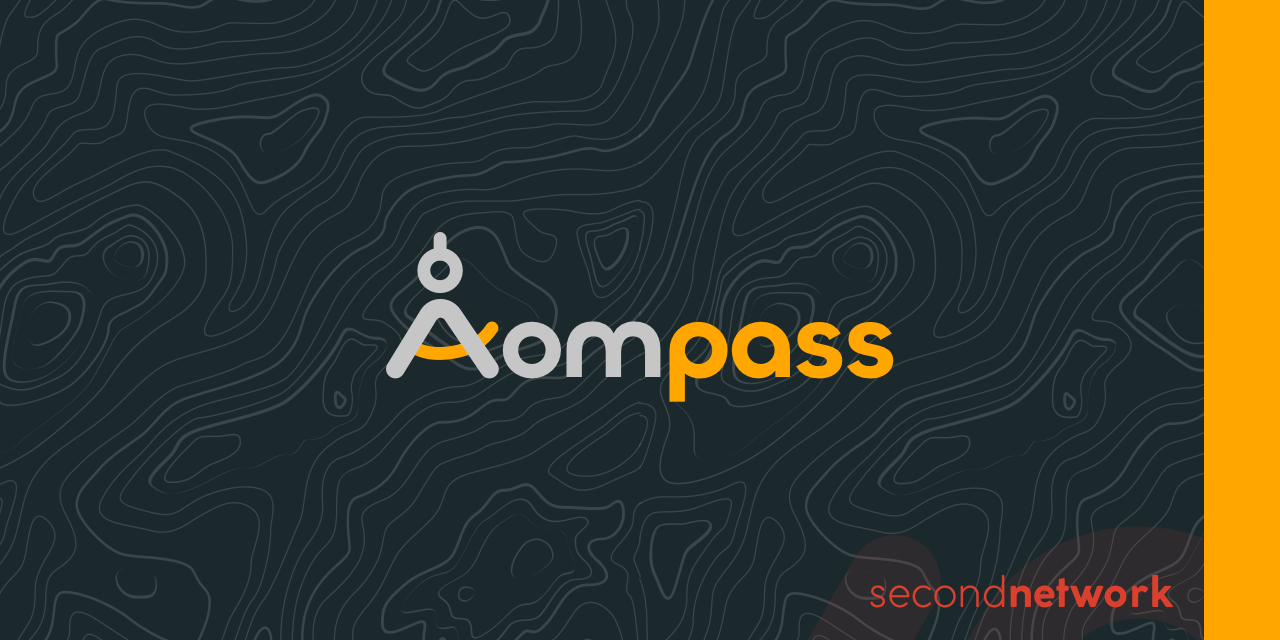
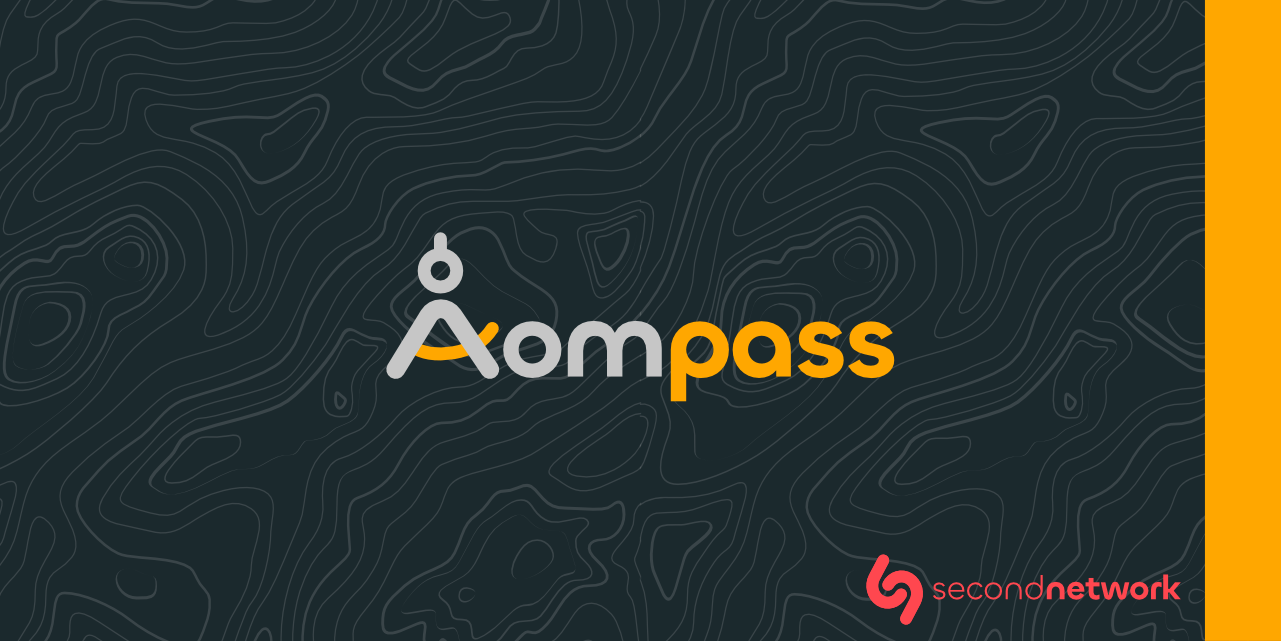
docs: update README to enhance project description and key features

Changed region(s): [[0.375, 0.5, 0.6875, 0.5938], [0.6562, 0.875, 0.9375, 0.9688], [0.4062, 0.5625, 0.4375, 0.5938]]

diff --git a/README.md b/README.md
@@ -9,15 +9,19 @@
 
 ## The development of Kompass
 
-Kompass is a modern content management system (CMS) built on the [Laravel](http://laravel.com/) framework, utilizing the TALL stack (Tailwind CSS, Alpine.js, Laravel, and Livewire). This powerful combination allows for a seamless and dynamic user experience, making content management easier and more efficient.
+Kompass is what a modern Laravel CMS should feel like. Built on Tailwind CSS 4, Livewire 4, and Laravel 13 — with a block builder, media library, drag-and-drop menus builder, multilingual content, passkey login, SEO, and role-based permissions baked in. No workarounds. No compromises. Built for developers who expect more.
+
+Still using WordPress or TYPO3? There's a better way. Kompass combines the power of Laravel with everything you need for modern web projects — without the legacy overhead.
 
 ## Key Features
 
-- **Modern Tech Stack**: Built with Laravel 13, PHP 8.3+, Livewire 4, and Tailwind CSS 4
+- **Modern Tech Stack**: Built with Laravel 13, PHP 8.2+, Livewire 4, and Tailwind CSS 4
+- **Block Builder**: Flexible block system for creating dynamic page layouts.
+- **Media Library**: Full-featured media management.
+- **Menu Builder**: Drag & Drop menu management
+- **User Management**: Role-based access control with Spatie Laravel Permission
+- **Passkey Authentication**: Passwordless login via biometrics or device PIN
 - **Multilingual Support**: Full multilingual content management for multiple languages
-- **Block-Based Content**: Flexible block system for creating dynamic page layouts
-- **Media Library**: Full-featured media management with folder support
-- **User Management**: Role-based access control with Laravel Permission
 
 ## Requirements
 